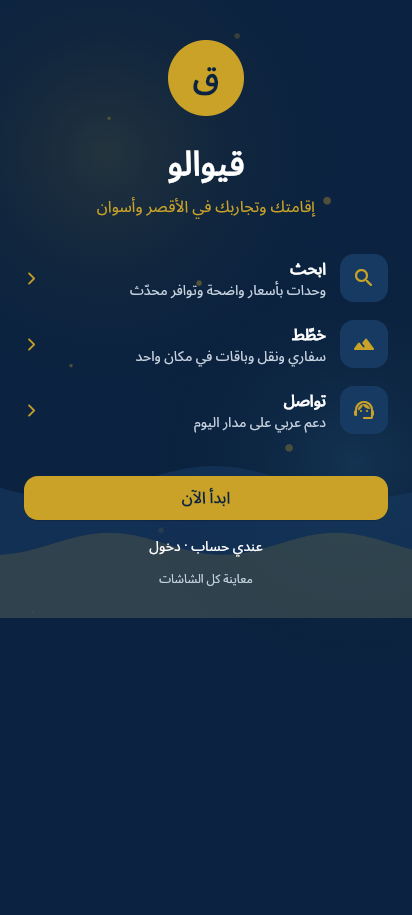
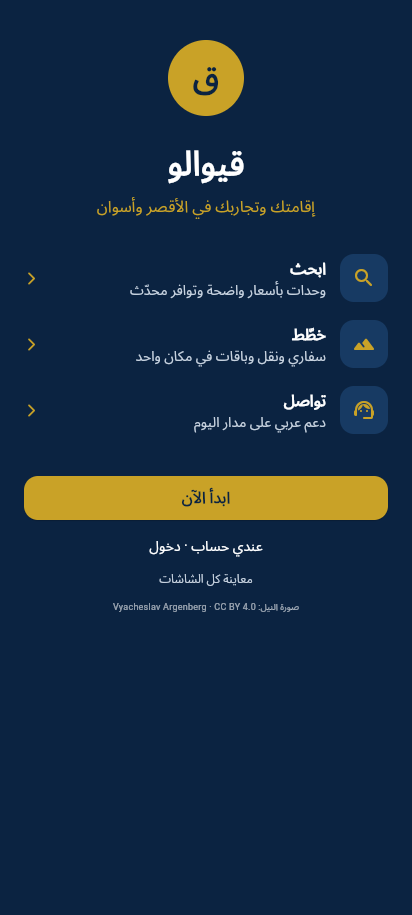
feat(mobile): use Luxor Nile photo for welcome backdrop

Changed region(s): [[0.0, 0.5814, 1.0, 0.6732], [0.7864, 0.2142, 0.8155, 0.2448]]

diff --git a/lib/screens/auth.dart b/lib/screens/auth.dart
@@ -1,5 +1,3 @@
-import 'dart:math' as math;
-
 import 'package:flutter/material.dart';
 import '../theme.dart';
 import '../widgets.dart';
@@ -18,11 +16,11 @@ class _OnboardingScreenState extends State<OnboardingScreen>
   @override
   void initState() {
     super.initState();
-    // حركة هادية وسلسة عشان التطبيق يبان حيّ من غير ما يبعد عن راحة البصر.
+    // تكبير بطيء جداً لصورة النيل؛ حركة هادية ومقصودة مش مؤثرات عشوائية.
     _controller = AnimationController(
       vsync: this,
-      duration: const Duration(seconds: 14),
-    )..repeat();
+      duration: const Duration(seconds: 24),
+    )..repeat(reverse: true);
   }
 
   @override
@@ -40,9 +38,34 @@ class _OnboardingScreenState extends State<OnboardingScreen>
           Positioned.fill(
             child: AnimatedBuilder(
               animation: _controller,
-              builder: (context, _) => CustomPaint(
-                painter: _WelcomeBackdropPainter(_controller.value),
-                child: const SizedBox.expand(),
+              builder: (context, _) {
+                final scale =
+                    1.02 + 0.04 * Curves.easeInOut.transform(_controller.value);
+                return Transform.scale(
+                  scale: scale,
+                  child: Image.asset(
+                    'assets/welcome_luxor.jpg',
+                    fit: BoxFit.cover,
+                    width: double.infinity,
+                    height: double.infinity,
+                    errorBuilder: (_, _, _) => const ColoredBox(color: navy),
+                  ),
+                );
+              },
+            ),
+          ),
+          Positioned.fill(
+            child: DecoratedBox(
+              decoration: BoxDecoration(
+                gradient: LinearGradient(
+                  begin: Alignment.topCenter,
+                  end: Alignment.bottomCenter,
+                  colors: [
+                    navy.withValues(alpha: 0.90),
+                    navy.withValues(alpha: 0.68),
+                    navy.withValues(alpha: 0.94),
+                  ],
+                ),
               ),
             ),
           ),
@@ -109,6 +132,12 @@ class _OnboardingScreenState extends State<OnboardingScreen>
                       style: TextStyle(color: Color(0xFFC7D2DF), fontSize: 12),
                     ),
                   ),
+                  const SizedBox(height: 6),
+                  const Text(
+                    'صورة النيل: Vyacheslav Argenberg · CC BY 4.0',
+                    textAlign: TextAlign.center,
+                    style: TextStyle(color: Color(0x99FFFFFF), fontSize: 9),
+                  ),
                 ],
               ),
             ),
@@ -147,110 +176,6 @@ class _OnboardingScreenState extends State<OnboardingScreen>
       ),
     );
   }
-}
-
-/// خلفية متحركة: توهّج خفيف + جزيئات ذهبية صاعدة + موجتان بيتحركوا ببطء،
-/// إشارة بصرية إن التطبيق شغّال وحّي من غير صوت أو استهلاك واضح للبطارية.
-class _WelcomeBackdropPainter extends CustomPainter {
-  const _WelcomeBackdropPainter(this.value);
-
-  final double value;
-
-  @override
-  void paint(Canvas canvas, Size size) {
-    final phase = value * math.pi * 2;
-
-    _glow(
-      canvas,
-      center: Offset(
-        size.width * (0.24 + 0.05 * math.sin(phase)),
-        size.height * (0.22 + 0.03 * math.cos(phase)),
-      ),
-      radius: size.width * 0.62,
-      color: gold.withValues(alpha: 0.13),
-    );
-    _glow(
-      canvas,
-      center: Offset(
-        size.width * (0.82 + 0.04 * math.cos(phase * 0.8)),
-        size.height * (0.74 + 0.04 * math.sin(phase * 0.6)),
-      ),
-      radius: size.width * 0.55,
-      color: const Color(0xFF2E6C8E).withValues(alpha: 0.22),
-    );
-
-    for (var i = 0; i < 9; i++) {
-      final progress = (value + i / 9) % 1;
-      final x = size.width * (0.08 + 0.84 * ((i * 37) % 100) / 100);
-      final y = size.height * (1.06 - progress * 1.2);
-      final radius = 1.6 + (i % 3) * 1.1;
-      final alpha = 0.08 + 0.30 * math.sin(progress * math.pi);
-      canvas.drawCircle(
-        Offset(x, y),
-        radius,
-        Paint()..color = gold.withValues(alpha: alpha),
-      );
-    }
-
-    _wave(
-      canvas,
-      size,
-      phase: phase,
-      baseY: size.height * 0.78,
-      amplitude: 16,
-      waveLength: size.width * 0.75,
-      color: navyLight.withValues(alpha: 0.55),
-    );
-    _wave(
-      canvas,
-      size,
-      phase: phase * 1.35 + 1.2,
-      baseY: size.height * 0.88,
-      amplitude: 11,
-      waveLength: size.width * 0.55,
-      color: gold.withValues(alpha: 0.16),
-    );
-  }
-
-  void _glow(
-    Canvas canvas, {
-    required Offset center,
-    required double radius,
-    required Color color,
-  }) {
-    canvas.drawCircle(
-      center,
-      radius,
-      Paint()
-        ..shader = RadialGradient(
-          colors: [color, Colors.transparent],
-        ).createShader(Rect.fromCircle(center: center, radius: radius)),
-    );
-  }
-
-  void _wave(
-    Canvas canvas,
-    Size size, {
-    required double phase,
-    required double baseY,
-    required double amplitude,
-    required double waveLength,
-    required Color color,
-  }) {
-    final path = Path()..moveTo(0, size.height);
-    for (double x = 0; x <= size.width + 6; x += 6) {
-      final y = baseY + math.sin((x / waveLength) * math.pi * 2 + phase) * amplitude;
-      path.lineTo(x, y);
-    }
-    path
-      ..lineTo(size.width, size.height)
-      ..close();
-    canvas.drawPath(path, Paint()..color = color);
-  }
-
-  @override
-  bool shouldRepaint(covariant _WelcomeBackdropPainter oldDelegate) =>
-      oldDelegate.value != value;
 }
 
 int passwordStrengthScore(String value) {

diff --git a/test/widget_test.dart b/test/widget_test.dart
@@ -71,9 +71,11 @@ void main() {
     expect(find.text('معاينة كل الشاشات'), findsOneWidget);
     expect(find.text('كل الشاشات · ٢٤'), findsNothing);
 
-    // الخلفية المتحركة لازم تشتغل لعدة إطارات من غير ما ترفع استثناء.
+    // خلفية الصورة لازم تتحرك ببطء لعدة إطارات من غير ما ترفع استثناء.
     await tester.pump(const Duration(seconds: 2));
     expect(find.text('قيوالو'), findsOneWidget);
+    expect(find.byType(Image), findsOneWidget);
+    expect(find.textContaining('صورة النيل'), findsOneWidget);
   });
 
   testWidgets('فهرس المراجعة لسه بيعرض الشاشات الخمس والعشرين', (tester) async {

diff --git a/docs/DESIGN-REVIEW.md b/docs/DESIGN-REVIEW.md
@@ -15,7 +15,7 @@
 - اسم التطبيق الظاهر في القائمة: **قيوالو**، بأيقونة كحلي/ذهبي مولّدة من `tools/make_icons.py`.
 - معرّف الحزمة: `com.qiwalo.app` (مختلف عن APK القديم، فبيتفّوا جنب بعض).
 - إرشادات التحميل والتثبيت: `docs/INSTALL-ANDROID.md`.
-- أول شاشة عند الفتح على أندرويد هي **شاشة الترحيب**، بخلفية متحركة خفيفة: توهّج ذهبي/أزرق، جزيئات صاعدة، وموجتان بيتحركوا ببطء (دوره ١٤ ثانية) عشان التطبيق يبان حيّ. المميزات التلاتة قابلة للضغط: «ابحث» و«خطّط» للرئيسية، و«تواصل» يفتح صفحة `/contact` للتواصل الداخلي. ومن رابط «معاينة كل الشاشات» تقدر تفتح فهرس المراجعة وأي شاشة منه. بناء الويب (أداة اللقطات فقط) يبدأ بفهرس المراجعة.
+- أول شاشة عند الفتح على أندرويد هي **شاشة الترحيب**، بخلفية صورة حقيقية للنيل في الأقصر (`assets/welcome_luxor.jpg`) مع طبقة كحلي متدرّجة عشان النص يفضل واضح، وتكبير بطيء جداً (دوره ٢٤ ثانية) من غير جزيئات أو موجات عشوائية. المميزات التلاتة قابلة للضغط: «ابحث» و«خطّط» للرئيسية، و«تواصل» يفتح صفحة `/contact` للتواصل الداخلي. ومن رابط «معاينة كل الشاشات» تقدر تفتح فهرس المراجعة وأي شاشة منه. بناء الويب (أداة اللقطات فقط) يبدأ بفهرس المراجعة. إسناد الصورة في `docs/IMAGE-ATTRIBUTION.md`.
 - إنشاء الحساب: كود الدولة بيتختار تلقائياً من منطقة جهاز الزائر (مع fallback `+20`) وقابل للتغيير، تلميح تحت الاسم الكامل، مؤشر قوة الباسورد + زر إظهار/إخفاء، والشروط والأحكام بتفتح `bottom sheet` داخل نفس الشاشة من غير تغيير route.
 - تسجيل الدخول: خانة واحدة للإيميل أو رقم التليفون المسجّل، والباسورد فيه إظهار/إخفاء + مؤشر قوة. **دخول الضيف معاينة واجهة فقط**؛ الدخول الحقيقي بالـ BFF موجود ل المالك/السائق في `/role-login`.
 - لو حابب تبنيه بنفسك: `flutter build apk --debug` (تم ضبط `flutter config --jdk-dir` على JDK 23 لأن الـ JBR المثبّت 25 غير مدعوم من Gradle).
@@ -86,7 +86,7 @@
 - `flutter test` ✅ ١٥ اختباراً (٩ لمعاينة التصميم والترحيب والتواصل وإنشاء الحساب وتسجيل الدخول وتفاصيل الوحدة وشاشات المالك/السائق، ٣ لحجز Mock: التسعير من BFF وظهور رسالة الرفض والبحث برقم المرجع، و٣ لدخول الأدوار وقراءة بيانات المالك/السائق بالتوكن).
 - `flutter build web --release --dart-define=USE_MOCK=true` ✅ (للقطات المراجعة فقط؛ ٢٨ لقطة Pixel 7).
 - `flutter build apk --debug` ✅ وتم فحص الـ APK: يحتوي `libflutter.so` و`flutter_assets` (عكس APK القديم).
-- `aapt dump badging` ✅: `package='com.qiwalo.app'` و`application-label='قيوالو'` و`versionName='1.2.5'` / `versionCode='8'` وأيقونة adaptive من `@mipmap/ic_launcher`.
+- `aapt dump badging` ✅: `package='com.qiwalo.app'` و`application-label='قيوالو'` و`versionName='1.2.6'` / `versionCode='9'` وأيقونة adaptive من `@mipmap/ic_launcher`.
 - تثبيت فعلي على جهاز `SM_A075F` عبر `adb install -r` ✅، والتطبيق افتح من غير كراش خاص به.
 
 ## متعمّد تأجيله

diff --git a/README.md b/README.md
@@ -59,9 +59,9 @@ Copy-Item build\app\outputs\flutter-apk\app-debug.apk releases\qiwalo.apk -Force
 
 ## الإصدارات
 
-كل تحديث بياخد GitHub Release لوحده في هذا المستودع، مع APK ولقطات Pixel 7. أحدث إصدار: `mobile-v1.2.5`.
+كل تحديث بياخد GitHub Release لوحده في هذا المستودع، مع APK ولقطات Pixel 7. أحدث إصدار: `mobile-v1.2.6`.
 
-أول ما يفتح التطبيق على أندرويد تظهر **شاشة الترحيب** بخلفية متحركة (توهّج ذهبي، جزيئات صاعدة، وموجتان بيتحركوا ببطء). المميزات التلاتة بقت قابلة للضغط: «ابحث» و«خطّط» للرئيسية، و**«تواصل»** يفتح صفحة تواصل داخلية فيها واتساب/تليجرام/تليفون وصندوق رسالة جاهز للإرسال. ومن شاشة الترحيب رابط «معاينة كل الشاشات» لفهرس المراجعة. بناء الويب بيبدأ بفهرس المراجعة لأنه أداة توليد اللقطات فقط.
+أول ما يفتح التطبيق على أندرويد تظهر **شاشة الترحيب** بخلفية صورة حقيقية للنيل في الأقصر مع طبقة كحلي راقية وتكبير بطيء جداً (من غير جزيئات أو موجات عشوائية). المميزات التلاتة قابلة للضغط: «ابحث» و«خطّط» للرئيسية، و**«تواصل»** يفتح صفحة تواصل داخلية فيها واتساب/تليجرام/تليفون وصندوق رسالة جاهز للإرسال. ومن شاشة الترحيب رابط «معاينة كل الشاشات» لفهرس المراجعة. بناء الويب بيبدأ بفهرس المراجعة لأنه أداة توليد اللقطات فقط. مصدر الصورة والترخيص في [`docs/IMAGE-ATTRIBUTION.md`](docs/IMAGE-ATTRIBUTION.md).
 
 شاشة إنشاء الحساب: كود الدولة بيتحدد من منطقة جهاز الزائر (مع إمكانية تغييره)، تلميح واضح تحت الاسم الكامل، مؤشر قوة الباسورد وزر إظهار/إخفاء، والشروط والأحكام بتفتح داخل الشاشة من غير خروج منها.
 

diff --git a/docs/RELEASE-WORKFLOW.md b/docs/RELEASE-WORKFLOW.md
@@ -31,5 +31,6 @@
 | `mobile-v1.2.3` | مميزات شاشة الترحيب بقت قابلة للضغط، و«تواصل» بيفتح صفحة تواصل داخلية (واتساب/تليجرام/تليفون + رسالة جاهزة للإرسال). أضفنا `/contact` كشاشة ٢٥ و٢٨ لقطة Pixel 7، و١٣ اختباراً. |
 | `mobile-v1.2.4` | تحسينات إنشاء الحساب: كود دولة تلقائي من منطقة الجهاز + قائمة دول، تلميح للاسم الكامل، مؤشر قوة الباسورد مع إظهار/إخفاء، والشروط والأحكام بتفتح داخل الشاشة عبر bottom sheet. ١٤ اختباراً. |
 | `mobile-v1.2.5` | تسجيل الدخول بقى يقبل الإيميل أو رقم التليفون المسجّل، مع إظهار/إخفاء ومؤشر قوة للباسورد (نفس منطق الإنشاء). ١٥ اختباراً. دخول الضيف لسه واجهة معاينة لحين عمل BFF خاص به. |
+| `mobile-v1.2.6` | خلفية شاشة الترحيب بقت صورة حقيقية للنيل في الأقصر مع طبقة كحلي متدرّجة وتكبير بطيء ٢٤ ثانية؛ شيلنا الجزيئات والموجات العشوائية. أضفنا ملف إسناد الترخيص. ١٥ اختباراً. |
 
 > التوقيع Release وإشعارات Push لسه مؤجّلة لطلب صريح. شاشات المالك/السائق مرتبطة بـ BFF الأدوار، لكن قبول/رفض طلبات الحجز لسه للقراءة فقط لأن الحجوزات بتتأكد تلقائياً. الـ APK الحالي debug وموقّع بالتطوير؛ يمكن تثبيته مباشرة على أندرويد ويُوزّع عبر رابط الـ Release.

diff --git a/docs/IMAGE-ATTRIBUTION.md b/docs/IMAGE-ATTRIBUTION.md
@@ -1,0 +1,12 @@
+# إسناد الصور
+
+## شاشة الترحيب
+
+- الملف: `assets/welcome_luxor.jpg`
+- العنوان: «Luxor, Egypt, River Nile sunset 2»
+- المصدر: [Wikimedia Commons](https://commons.wikimedia.org/wiki/File:Luxor,_Egypt,_River_Nile_sunset_2.jpg)
+- المصوّر: Vyacheslav Argenberg
+- الترخيص: [CC BY 4.0](https://creativecommons.org/licenses/by/4.0/)
+- التعديل: تم تغيير الحجم إلى ١٢٨٠ بكسل، واستخدمت كخلفية مع طبقة كحلي متدرّجة وتكبير بطيء داخل التطبيق.
+
+الإسناد ظاهر أيضاً داخل شاشة الترحيب نفسها.
